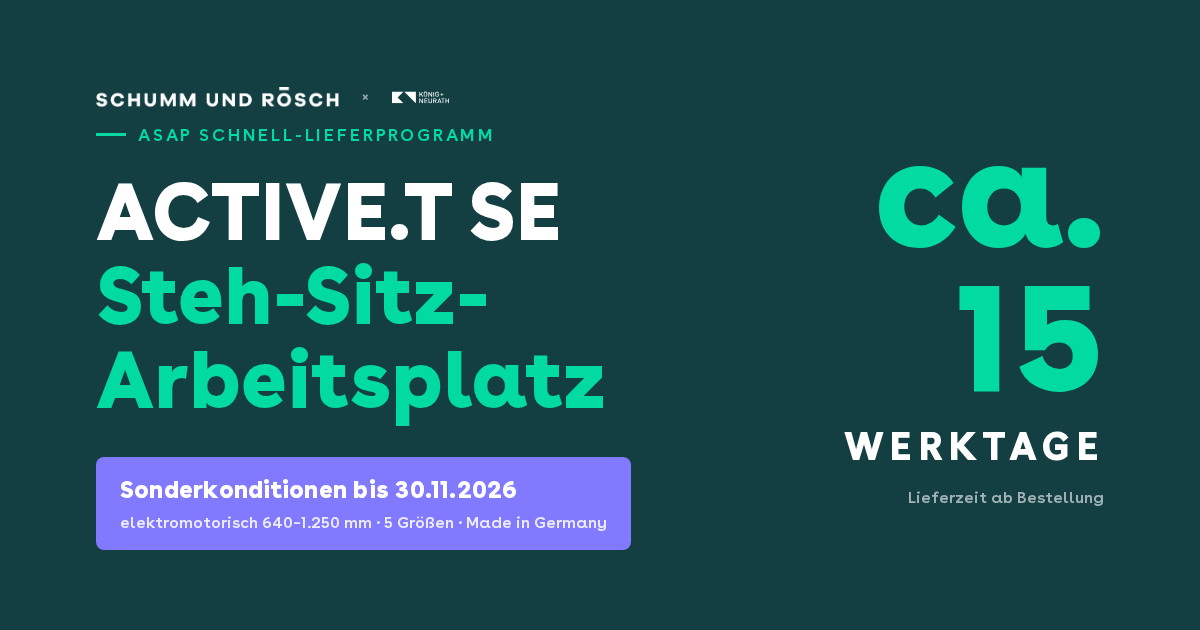
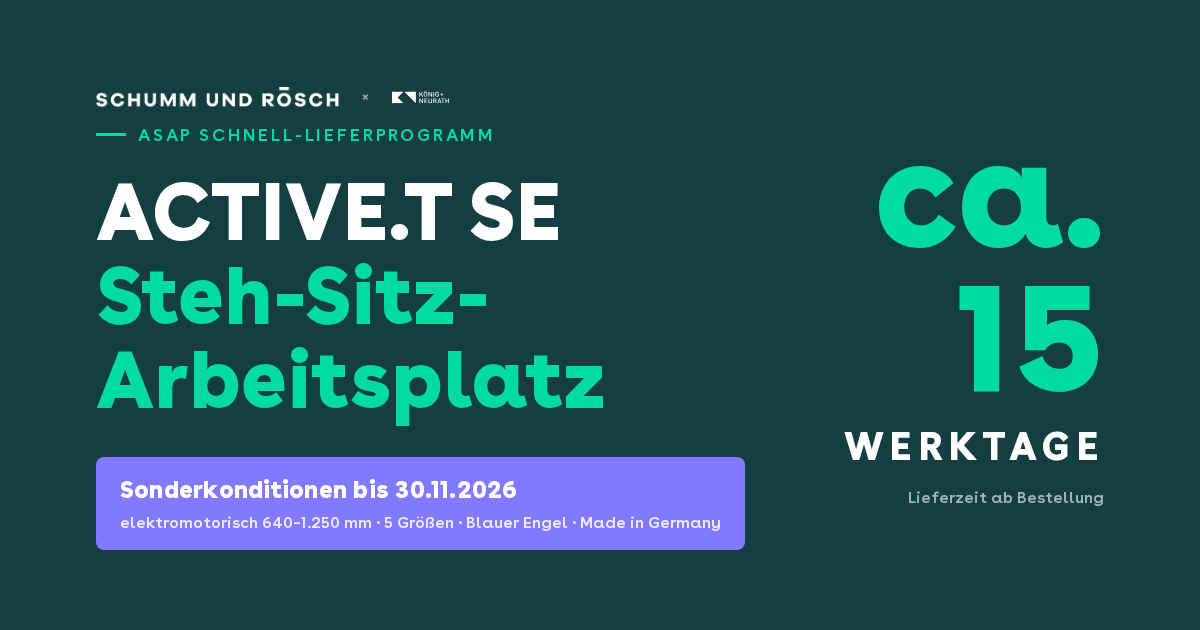
K+N ACTIVE.T: echte Produktdaten eingebaut (5 Groessen 1200-2000x800, Dekore, Gestellfarben, Auffahrschutz, Steckdose/Kabelwanne, Blauer Engel + TUEV GS)

Changed region(s): [[0.37, 0.7238, 0.6475, 0.8746]]

diff --git a/public/koenig-neurath-active-t/index.html b/public/koenig-neurath-active-t/index.html
@@ -4,9 +4,9 @@
 <meta charset="utf-8">
 <meta name="viewport" content="width=device-width, initial-scale=1">
 <title>ACTIVE.T SE Steh-Sitz-Arbeitsplatz — in ca. 15 Werktagen | König + Neurath × Schumm &amp; Rösch</title>
-<meta name="description" content="Der ACTIVE.T SE Steh-Sitz-Arbeitsplatz von König + Neurath: elektromotorisch höhenverstellbar (640–1.250 mm), 5 Größen, Made in Germany — in ca. 15 Werktagen bei dir. Sonderkonditionen bis 30.11.2026.">
+<meta name="description" content="Der ACTIVE.T SE Steh-Sitz-Arbeitsplatz von König + Neurath: elektromotorisch höhenverstellbar (640–1.250 mm), 5 Größen, 6 Dekore, Blauer Engel, TÜV GS, Made in Germany — in ca. 15 Werktagen bei dir. Sonderkonditionen bis 30.11.2026.">
 <meta property="og:title" content="ACTIVE.T SE Steh-Sitz-Arbeitsplatz — in ca. 15 Werktagen">
-<meta property="og:description" content="Der ACTIVE.T SE von König + Neurath — elektromotorisch höhenverstellbar, 5 Größen, Made in Germany. Sonderkonditionen bis 30.11.2026.">
+<meta property="og:description" content="Der ACTIVE.T SE von König + Neurath — elektromotorisch höhenverstellbar, 5 Größen, Blauer Engel, TÜV GS, Made in Germany. Sonderkonditionen bis 30.11.2026.">
 <meta property="og:image" content="https://landing.schumms.com/koenig-neurath-active-t/og.png">
 <meta property="og:image:width" content="1200">
 <meta property="og:image:height" content="630">
@@ -272,7 +272,7 @@ height="0" width="0" style="display:none;visibility:hidden"></iframe></noscript>
       <p class="sr-sub">Der ACTIVE.T SE Steh-Sitz-Arbeitsplatz von König &amp; Neurath ist in ca. 15 Werktagen bei dir — elektromotorisch höhenverstellbar, in fünf Größen, Made in Germany.</p>
       <ul class="sr-checks">
         <li>Elektromotorische Höhenverstellung: 640–1.250 mm</li>
-        <li>Fünf Größen — für jeden Arbeitsplatz</li>
+        <li>Blauer Engel &amp; TÜV GS — geprüfte Sicherheit</li>
         <li>Made in Germany</li>
       </ul>
       <div class="sr-herocopy">
@@ -302,7 +302,7 @@ height="0" width="0" style="display:none;visibility:hidden"></iframe></noscript>
   <div class="sr-inner">
     <div class="sr-uspitem"><strong>ca. 15 Werktage</strong><span>Lieferzeit ab Bestellung*</span></div>
     <div class="sr-uspitem"><strong>640–1.250 mm</strong><span>elektromotorisch höhenverstellbar</span></div>
-    <div class="sr-uspitem"><strong>5 Größen</strong><span>das passende Format für jeden Raum</span></div>
+    <div class="sr-uspitem"><strong>Blauer Engel &amp; TÜV GS</strong><span>geprüfte Umwelt- und Sicherheitsstandards</span></div>
     <div class="sr-uspitem"><strong>Aus einer Hand</strong><span>Wir beraten, planen und liefern</span></div>
   </div>
 </section>
@@ -331,12 +331,12 @@ height="0" width="0" style="display:none;visibility:hidden"></iframe></noscript>
     <div class="sr-copy">
       <span class="eyebrow" style="color:var(--ink);"><i></i>Der Tisch</span>
       <h2>Ergonomie auf Knopfdruck.</h2>
-      <p class="sr-sub">Der ACTIVE.T SE ist kein Behelf, sondern der Steh-Sitz-Arbeitsplatz aus dem Hause König + Neurath — elektromotorisch höhenverstellbar und in fünf Größen, nur eben schnell verfügbar.</p>
+      <p class="sr-sub">Der ACTIVE.T SE ist kein Behelf, sondern der geprüfte Steh-Sitz-Arbeitsplatz aus dem Hause König + Neurath — Blauer Engel, TÜV GS-zertifizierte Sicherheit, Fertigung in Deutschland. Nur eben schnell verfügbar.</p>
       <div class="sr-features">
-        <div class="sr-feature"><strong>Elektromotorisch</strong><span>Höhenverstellung von 640 bis 1.250 mm — per Tastendruck auf jede Körpergröße und jede Aufgabe eingestellt.</span></div>
-        <div class="sr-feature"><strong>Fünf Größen</strong><span>Von kompakt bis groß — ACTIVE.T SE passt an jeden Arbeitsplatz und in jeden Raum.</span></div>
-        <div class="sr-feature"><strong>Steh-Sitz</strong><span>Der Wechsel zwischen Sitzen und Stehen entlastet Rücken, Nacken und Kreislauf — aktiver durch den Arbeitstag.</span></div>
-        <div class="sr-feature"><strong>Made in Germany</strong><span>Fertigung von König + Neurath — hochwertig, langlebig, ergonomisch.</span></div>
+        <div class="sr-feature"><strong>Elektromotorisch</strong><span>Höhenverstellung von 640 bis 1.250 mm — per Tastendruck auf jede Körpergröße und Aufgabe eingestellt. Auf-/Ab-Bedienfeld mit Auffahrschutz: sofortiger Stopp bei Hindernissen.</span></div>
+        <div class="sr-feature"><strong>Fünf Größen</strong><span>Platten von 1.200 bis 2.000 × 800 mm — vom kompakten Einzelarbeitsplatz bis zur großzügigen Arbeitsfläche.</span></div>
+        <div class="sr-feature"><strong>Dekore &amp; Gestell</strong><span>Platte in sechs Dekoren — Reinweiß, Lichtgrau, Uni Melange, Ulme, Eiche Natur, Akazie. Gestell in alufarbig, schwarz oder weiß.</span></div>
+        <div class="sr-feature"><strong>Komplett ausgestattet</strong><span>Inklusive Plattenausschnitten, 3-fach Steckdose mit Zufuhrkabel und Kabelwanne aus Metall (100 mm) — fertig geplant und verkabelt.</span></div>
       </div>
       <div class="sr-foot">
         <a class="sr-ctabtn" href="#sr-form">Angebot einholen →</a>
@@ -388,16 +388,16 @@ height="0" width="0" style="display:none;visibility:hidden"></iframe></noscript>
       <p>Ja. Die Sonderkonditionen gelten für alle Bestellungen des ASAP Schnell-Lieferprogramms bis zum 30.11.2026 — ob ein Tisch oder ein ganzes Team. Gerne beraten wir dich zu größeren Stückzahlen.</p>
     </details>
     <details>
-      <summary>Welche Größe passt zu meinem Raum?</summary>
-      <p>ACTIVE.T SE gibt es in fünf Größen. Wir beraten dich persönlich — zu Formaten, Aufbaustellungen und der Kombination mit deinem bestehenden Inventar. Schreib uns einfach über das Formular, wir melden uns bei dir.</p>
+      <summary>Welche Größe und welcher Dekor passen zu meinem Raum?</summary>
+      <p>ACTIVE.T SE gibt es in fünf Größen — Platten von 1.200, 1.400, 1.600, 1.800 oder 2.000 × 800 mm — und in sechs Dekoren: Reinweiß, Lichtgrau, Uni Melange, Ulme, Eiche Natur oder Akazie. Das Gestell ist in alufarbig, schwarz oder weiß erhältlich. Wir beraten dich persönlich zur passenden Kombination für deinen Raum.</p>
     </details>
     <details>
       <summary>Warum König + Neurath?</summary>
-      <p>König + Neurath fertigt in Deutschland und steht für ergonomische, langlebige Arbeitsplatzmöbel. Der ACTIVE.T SE ist ein echter Steh-Sitz-Arbeitsplatz mit elektromotorischer Höhenverstellung — kein Schnellläufer-Kompromiss.</p>
+      <p>König + Neurath fertigt in Deutschland und steht für ergonomische, langlebige Arbeitsplatzmöbel. Der ACTIVE.T SE ist ein echter Steh-Sitz-Arbeitsplatz — elektromotorisch höhenverstellbar, mit Blauer Engel und TÜV GS-Zertifikat für geprüfte Sicherheit. Kein Schnellläufer-Kompromiss.</p>
     </details>
     <details>
       <summary>Was kostet der ACTIVE.T SE?</summary>
-      <p>Der Preis hängt von Größe, Ausstattung und Stückzahl ab. Bis zum 30.11.2026 gelten Sonderkonditionen — fordere dein persönliches Angebot an, es ist unverbindlich.</p>
+      <p>Der Preis hängt von Größe, Dekor und Stückzahl ab. Bis zum 30.11.2026 gelten Sonderkonditionen — fordere dein persönliches Angebot an, es ist unverbindlich.</p>
     </details>
   </div>
 </section>

diff --git a/public/koenig-neurath-active-t/og.html b/public/koenig-neurath-active-t/og.html
@@ -41,7 +41,7 @@ h1 .accent{color:#01DBA2;}
       <h1>ACTIVE.T SE<br><span class="accent">Steh-Sitz-Arbeitsplatz</span></h1>
       <div class="badge">
         <strong>Sonderkonditionen bis 30.11.2026</strong>
-        <span>elektromotorisch 640–1.250 mm · 5 Größen · Made in Germany</span>
+        <span>elektromotorisch 640–1.250 mm · 5 Größen · Blauer Engel · Made in Germany</span>
       </div>
     </div>
   </div>
